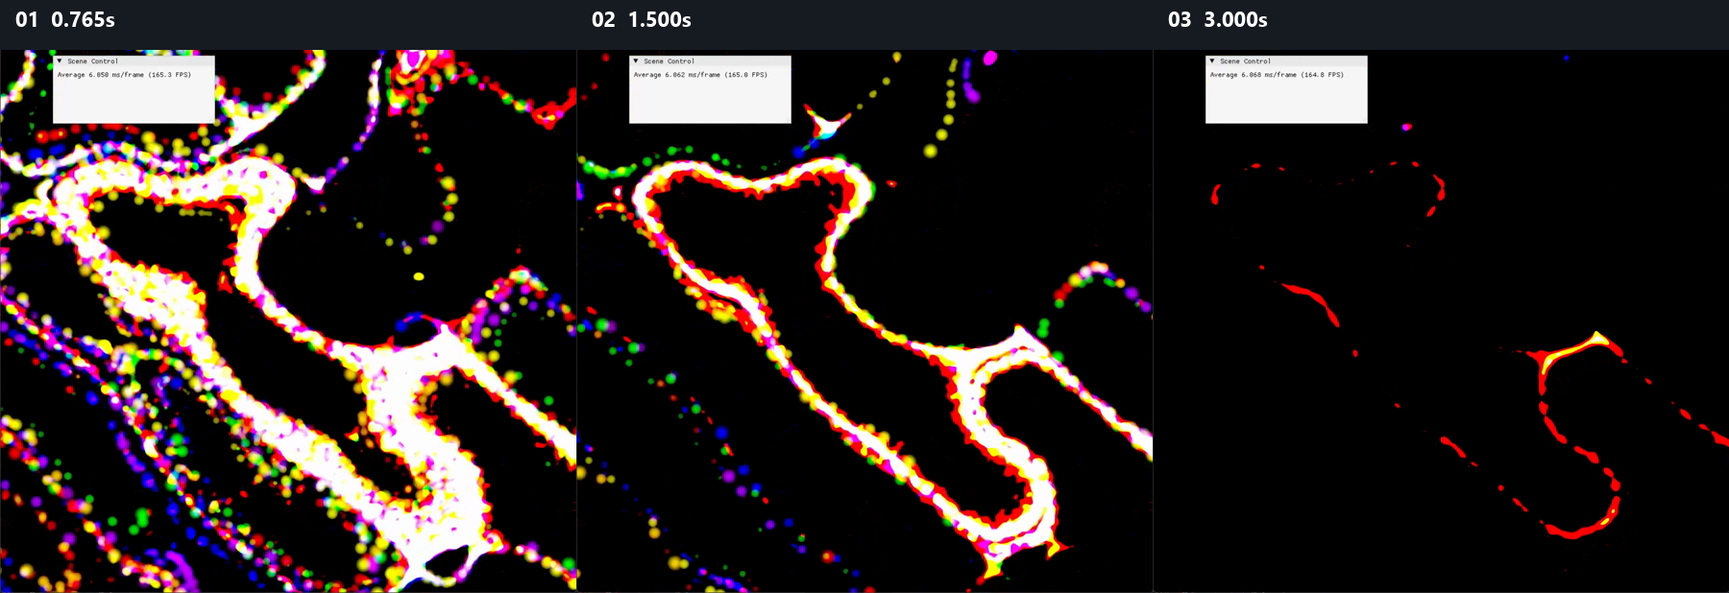
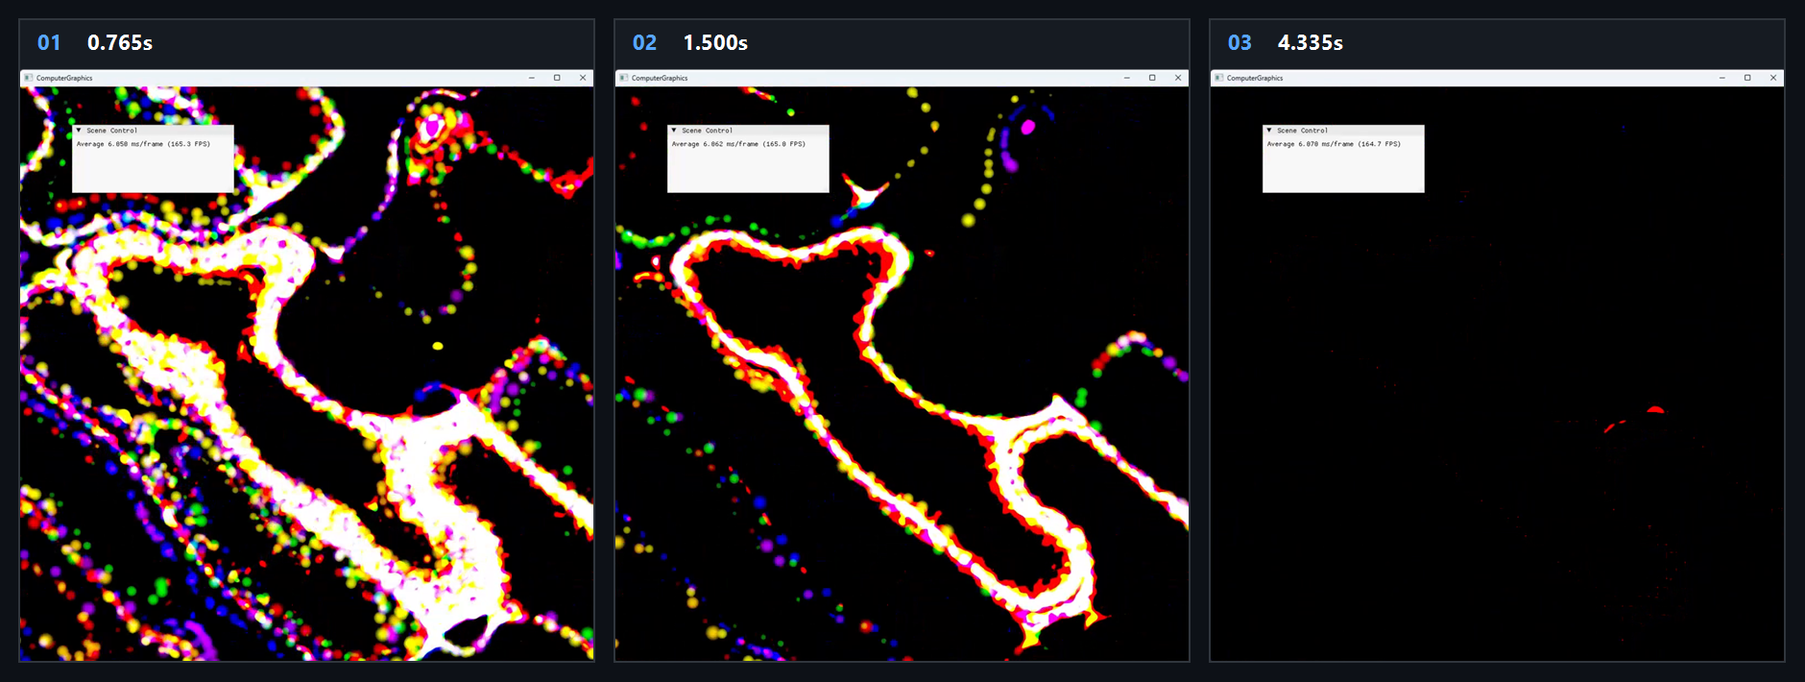
fix: Part4 storyboard final asset 통일

diff --git a/Docs/02_Verification/Part4_Chapter14-20/verification-index.md b/Docs/02_Verification/Part4_Chapter14-20/verification-index.md
@@ -22,18 +22,18 @@
 | `Ex1501_ParticleSystem`      | `1501`           | `Part4_Chapter14-20/Examples.sln` | 성공          | 성공        | 성공            | 성공          | tracked 후보 | Debug x64 시연 video의 1.163s, 3.878s, 6.593s frame storyboard를 `Docs/_assets/captures`에 승격. Release는 과거 확인                                                |
 | `Ex1502_SpriteFireEffect`    | `1502`           | `Part4_Chapter14-20/Examples.sln` | 성공          | 성공        | 성공            | 성공          | tracked 후보 | Debug x64 시연 video의 1.695s, 5.650s, 9.605s frame storyboard를 `Docs/_assets/captures`에 승격. 원본 `flare0.dds`는 직접 링크하지 않음. Release는 과거 확인                   |
 | `Ex1503_SphWater`            | `1503`           | `Part4_Chapter14-20/Examples.sln` | 성공          | 성공        | 성공            | 성공          | tracked 후보 | Debug x64 시연 video의 2.200s, 4.600s, 12.467s frame storyboard를 `Docs/_assets/captures`에 승격. Release는 과거 확인                                               |
-| `Ex1601_StableFluids`        | `1601`           | `Part4_Chapter14-20/Examples.sln` | 성공          | 성공        | 성공            | 성공          | tracked 후보 | 2026-08-07 Debug와 Release x64 build/run/capture smoke 성공. 5.200s, 13.000s, 20.800s interaction storyboard를 `Docs/_assets/captures`에 승격함                 |
-| `Ex1602_CurlNoise`           | `1602`           | `Part4_Chapter14-20/Examples.sln` | 성공          | 성공        | 성공            | 성공          | tracked 후보 | 2026-08-07 Debug와 Release x64 build/run/capture smoke 성공. 0.765s, 1.500s, 3.000s colored curl-noise density trail storyboard를 `Docs/_assets/captures`에 승격함 |
+| `Ex1601_StableFluids`        | `1601`           | `Part4_Chapter14-20/Examples.sln` | 성공          | 성공        | 성공            | 성공          | tracked 후보 | 2026-08-07 Debug와 Release x64 build/run/capture smoke 성공. 5.200s, 13.000s, 22.100s interaction storyboard를 `Docs/_assets/captures`에 승격함                 |
+| `Ex1602_CurlNoise`           | `1602`           | `Part4_Chapter14-20/Examples.sln` | 성공          | 성공        | 성공            | 성공          | tracked 후보 | 2026-08-07 Debug와 Release x64 build/run/capture smoke 성공. 0.765s, 1.500s, 4.335s colored curl-noise density trail storyboard를 `Docs/_assets/captures`에 승격함 |
 | `Ex1603_Cloud`               | `1603`           | `Part4_Chapter14-20/Examples.sln` | 성공          | 성공        | 성공            | 성공          | tracked 후보 | 2026-08-07 Debug와 Release x64 build/run/capture smoke 성공. 0.870s, 2.900s, 4.930s volumetric cloud storyboard를 `Docs/_assets/captures`에 승격함 |
-| `Ex1604_RealtimeSmoke`       | `1604`           | `Part4_Chapter14-20/Examples.sln` | 성공          | 성공        | 성공            | 성공          | tracked 후보 | 2026-08-07 Debug와 Release x64 build/run/capture smoke 성공. 5.370s, 13.420s, 21.470s HDRI rendered storyboard를 승격하고 원본 HDRI는 직접 게시하지 않음                   |
+| `Ex1604_RealtimeSmoke`       | `1604`           | `Part4_Chapter14-20/Examples.sln` | 성공          | 성공        | 성공            | 성공          | tracked 후보 | 2026-08-07 Debug와 Release x64 build/run/capture smoke 성공. 4.025s, 13.417s, 22.808s HDRI rendered storyboard를 승격하고 원본 HDRI는 직접 게시하지 않음                   |
 | `Ex1605_SmokeCpu`            | `1605`           | `Part4_Chapter14-20/Examples.sln` | 성공          | 성공        | 성공            | 성공          | tracked 후보 | 2026-08-07 Debug와 Release x64 build/run/capture smoke 성공. 1.350s, 4.500s, 7.650s CPU smoke storyboard를 `Docs/_assets/captures`에 승격하고 HDRI 원본은 직접 게시하지 않음 |
-| `Ex1606_HybridWater`         | `1606`           | `Part4_Chapter14-20/Examples.sln` | 성공          | 성공        | 성공            | 성공          | tracked 후보 | 2026-08-07 Debug와 Release x64 build/run/capture smoke 성공. 2.510s, 6.280s, 10.050s `RenderDensity` storyboard를 승격함                                       |
-| `Ex1701_SkeletalAnimation`   | `1701`           | `Part4_Chapter14-20/Examples.sln` | 성공          | 성공        | 성공            | 성공          | tracked 후보 | 2026-08-07 Debug와 Release x64 build/run/capture smoke 성공. 1.010s, 2.530s, 4.050s skeletal pose storyboard를 승격하고 원본 character asset은 직접 게시하지 않음          |
+| `Ex1606_HybridWater`         | `1606`           | `Part4_Chapter14-20/Examples.sln` | 성공          | 성공        | 성공            | 성공          | tracked 후보 | 2026-08-07 Debug와 Release x64 build/run/capture smoke 성공. 1.885s, 6.283s, 10.682s `RenderDensity` storyboard를 승격함                                       |
+| `Ex1701_SkeletalAnimation`   | `1701`           | `Part4_Chapter14-20/Examples.sln` | 성공          | 성공        | 성공            | 성공          | tracked 후보 | 2026-08-07 Debug와 Release x64 build/run/capture smoke 성공. 0.800s, 2.500s, 4.300s skeletal pose storyboard를 승격하고 원본 character asset은 직접 게시하지 않음          |
 | `Ex1801_Tree`                | `1801`           | `Part4_Chapter14-20/Examples.sln` | 성공          | 성공        | 성공            | 성공          | tracked 후보 | 2026-08-07 Debug와 Release x64 build/run/capture smoke 성공. 1.140s, 3.800s, 6.460s tree scene storyboard를 `Docs/_assets/captures`에 승격하고 foliage 원본 asset은 직접 게시하지 않음 |
-| `Ex1802_Grass`               | `1802`           | `Part4_Chapter14-20/Examples.sln` | 성공          | 성공        | 성공            | 성공          | tracked 후보 | 2026-08-07 Debug와 Release x64 build/run/capture smoke 성공. 1.590s, 3.970s, 6.350s wind phase storyboard를 승격함                                             |
-| `Ex1803_Landscape`           | `1803`           | `Part4_Chapter14-20/Examples.sln` | 성공          | 성공        | 성공            | 성공          | tracked 후보 | 2026-08-07 Debug와 Release x64 build/run/capture smoke 성공. 1.520s, 3.800s, 6.080s terrain/ocean storyboard를 승격함                                          |
-| `Ex1901_PhysX`               | `1901`           | `Part4_Chapter14-20/Examples.sln` | 성공          | 성공        | 성공            | 성공          | tracked 후보 | 2026-08-07 Debug와 Release x64 build/run/capture smoke 성공. 1.890s, 4.720s, 7.550s block collapse storyboard를 승격함                                         |
-| `Ex2001_GamePlay`            | `2001`           | `Part4_Chapter14-20/Examples.sln` | 성공          | 성공        | 성공            | 성공          | tracked 후보 | 2026-08-07 Debug와 Release x64 build/run/capture smoke 성공. 5.680s, 14.200s, 22.720s gameplay destruction storyboard를 승격하고 원본 character asset은 직접 게시하지 않음 |
+| `Ex1802_Grass`               | `1802`           | `Part4_Chapter14-20/Examples.sln` | 성공          | 성공        | 성공            | 성공          | tracked 후보 | 2026-08-07 Debug와 Release x64 build/run/capture smoke 성공. 1.190s, 3.967s, 6.743s wind phase storyboard를 승격함                                             |
+| `Ex1803_Landscape`           | `1803`           | `Part4_Chapter14-20/Examples.sln` | 성공          | 성공        | 성공            | 성공          | tracked 후보 | 2026-08-07 Debug와 Release x64 build/run/capture smoke 성공. 1.140s, 3.800s, 6.460s terrain/ocean storyboard를 승격함                                          |
+| `Ex1901_PhysX`               | `1901`           | `Part4_Chapter14-20/Examples.sln` | 성공          | 성공        | 성공            | 성공          | tracked 후보 | 2026-08-07 Debug와 Release x64 build/run/capture smoke 성공. 1.415s, 4.717s, 8.018s block collapse storyboard를 승격함                                         |
+| `Ex2001_GamePlay`            | `2001`           | `Part4_Chapter14-20/Examples.sln` | 성공          | 성공        | 성공            | 성공          | tracked 후보 | 2026-08-07 Debug와 Release x64 build/run/capture smoke 성공. 4.260s, 14.200s, 24.140s gameplay destruction storyboard를 승격하고 원본 character asset은 직접 게시하지 않음 |
 
 ## 실행 선택 방식
 
@@ -139,14 +139,14 @@ Debug x64 build는 2026-08-06 `Examples.sln` 기준 경고 0개, 오류 0개로 
 
 | Example | Timestamp 후보 | Storyboard 설명 | Asset 주의 |
 | --- | --- | --- | --- |
-| `Ex1601_StableFluids` | 5.200s, 13.000s, 20.800s | source injection 뒤 색 density field 변화 | [tracked storyboard](../../_assets/captures/part4_chapter16_01_stable_fluids.png) |
-| `Ex1604_RealtimeSmoke` | 5.370s, 13.420s, 21.470s | HDRI 배경의 source, 확산, buoyancy 변화 | [tracked storyboard](../../_assets/captures/part4_chapter16_04_realtime_smoke.png). rendered evidence만 사용하고 원본 HDRI는 직접 게시하지 않음 |
-| `Ex1606_HybridWater` | 2.510s, 6.280s, 10.050s | raycasting surface와 `RenderDensity` volume 표시 비교 | [tracked storyboard](../../_assets/captures/part4_chapter16_06_hybrid_water.png). density field 시각화이며 물성 mode 전환으로 설명하지 않음 |
-| `Ex1701_SkeletalAnimation` | 1.010s, 2.530s, 4.050s | animation pose 변화 | [tracked storyboard](../../_assets/captures/part4_chapter17_01_skeletal_animation.png). 원본 character asset은 직접 게시하지 않음 |
-| `Ex1802_Grass` | 1.590s, 3.970s, 6.350s | wind phase에 따른 instanced grass field 변화 | [tracked storyboard](../../_assets/captures/part4_chapter18_02_grass.png). rendered evidence만 사용 |
-| `Ex1803_Landscape` | 1.520s, 3.800s, 6.080s | terrain과 animated ocean surface | [tracked storyboard](../../_assets/captures/part4_chapter18_03_landscape.png). rendered evidence만 사용 |
-| `Ex1901_PhysX` | 1.890s, 4.720s, 7.550s | block wall collapse 단계 | [tracked storyboard](../../_assets/captures/part4_chapter19_01_physx.png) |
-| `Ex2001_GamePlay` | 5.680s, 14.200s, 22.720s | gameplay destruction 진행 | [tracked storyboard](../../_assets/captures/part4_chapter20_01_gameplay.png). 원본 character asset은 직접 게시하지 않음 |
+| `Ex1601_StableFluids` | 5.200s, 13.000s, 22.100s | source injection 뒤 색 density field 변화 | [tracked storyboard](../../_assets/captures/part4_chapter16_01_stable_fluids.png) |
+| `Ex1604_RealtimeSmoke` | 4.025s, 13.417s, 22.808s | HDRI 배경의 source, 확산, buoyancy 변화 | [tracked storyboard](../../_assets/captures/part4_chapter16_04_realtime_smoke.png). rendered evidence만 사용하고 원본 HDRI는 직접 게시하지 않음 |
+| `Ex1606_HybridWater` | 1.885s, 6.283s, 10.682s | raycasting surface와 `RenderDensity` volume 표시 비교 | [tracked storyboard](../../_assets/captures/part4_chapter16_06_hybrid_water.png). density field 시각화이며 물성 mode 전환으로 설명하지 않음 |
+| `Ex1701_SkeletalAnimation` | 0.800s, 2.500s, 4.300s | animation pose 변화 | [tracked storyboard](../../_assets/captures/part4_chapter17_01_skeletal_animation.png). 원본 character asset은 직접 게시하지 않음 |
+| `Ex1802_Grass` | 1.190s, 3.967s, 6.743s | wind phase에 따른 instanced grass field 변화 | [tracked storyboard](../../_assets/captures/part4_chapter18_02_grass.png). rendered evidence만 사용 |
+| `Ex1803_Landscape` | 1.140s, 3.800s, 6.460s | terrain과 animated ocean surface | [tracked storyboard](../../_assets/captures/part4_chapter18_03_landscape.png). rendered evidence만 사용 |
+| `Ex1901_PhysX` | 1.415s, 4.717s, 8.018s | block wall collapse 단계 | [tracked storyboard](../../_assets/captures/part4_chapter19_01_physx.png) |
+| `Ex2001_GamePlay` | 4.260s, 14.200s, 24.140s | gameplay destruction 진행 | [tracked storyboard](../../_assets/captures/part4_chapter20_01_gameplay.png). 원본 character asset은 직접 게시하지 않음 |
 
 ## 갱신 기준
 

diff --git a/Docs/_assets/captures/README.md b/Docs/_assets/captures/README.md
@@ -117,18 +117,18 @@ part2_chapter04_depth-buffer.png
 | `part4_chapter15_01_particle_system.png` | storyboard | `Part4_Chapter14-20/Ex1501_ParticleSystem` | 확보 | `ComputerGraphics` title의 1.163s, 3.878s, 6.593s timestamp frame을 배치한 particle stream evidence |
 | `part4_chapter15_02_sprite_fire_effect.png` | storyboard | `Part4_Chapter14-20/Ex1502_SpriteFireEffect` | 확보 | `ComputerGraphics` title의 1.695s, 5.650s, 9.605s timestamp frame을 배치한 sprite fire rendered evidence |
 | `part4_chapter15_03_sph_water.png` | storyboard | `Part4_Chapter14-20/Ex1503_SphWater` | 확보 | `ComputerGraphics` title의 2.200s, 4.600s, 12.467s timestamp frame을 배치한 SPH water evidence |
-| `part4_chapter16_01_stable_fluids.png` | storyboard | `Part4_Chapter14-20/Ex1601_StableFluids` | 확보 | `ComputerGraphics` title의 5.200s, 13.000s, 20.800s source injection density 변화 evidence |
-| `part4_chapter16_02_curl_noise.png` | storyboard | `Part4_Chapter14-20/Ex1602_CurlNoise` | 확보 | 0.765s, 1.500s, 3.000s colored curl-noise density trail evidence |
+| `part4_chapter16_01_stable_fluids.png` | storyboard | `Part4_Chapter14-20/Ex1601_StableFluids` | 확보 | `ComputerGraphics` title의 5.200s, 13.000s, 22.100s source injection density 변화 evidence |
+| `part4_chapter16_02_curl_noise.png` | storyboard | `Part4_Chapter14-20/Ex1602_CurlNoise` | 확보 | 0.765s, 1.500s, 4.335s colored curl-noise density trail evidence |
 | `part4_chapter16_03_cloud.png` | storyboard | `Part4_Chapter14-20/Ex1603_Cloud` | 확보 | 0.870s, 2.900s, 4.930s procedural cloud volume evidence |
-| `part4_chapter16_04_realtime_smoke.png` | storyboard | `Part4_Chapter14-20/Ex1604_RealtimeSmoke` | 확보 | 5.370s, 13.420s, 21.470s HDRI rendered smoke source·확산·buoyancy evidence. 원본 HDRI는 직접 게시하지 않음 |
+| `part4_chapter16_04_realtime_smoke.png` | storyboard | `Part4_Chapter14-20/Ex1604_RealtimeSmoke` | 확보 | 4.025s, 13.417s, 22.808s HDRI rendered smoke source·확산·buoyancy evidence. 원본 HDRI는 직접 게시하지 않음 |
 | `part4_chapter16_05_smoke_cpu.png` | storyboard | `Part4_Chapter14-20/Ex1605_SmokeCpu` | 확보 | 1.350s, 4.500s, 7.650s CPU density upload와 volume smoke evidence. 원본 HDRI는 직접 게시하지 않음 |
-| `part4_chapter16_06_hybrid_water.png` | storyboard | `Part4_Chapter14-20/Ex1606_HybridWater` | 확보 | 2.510s, 6.280s, 10.050s particle-to-grid density field의 volume rendering evidence |
-| `part4_chapter17_01_skeletal_animation.png` | storyboard | `Part4_Chapter14-20/Ex1701_SkeletalAnimation` | 확보 | 1.010s, 2.530s, 4.050s skeletal animation pose evidence. 원본 character asset은 직접 게시하지 않음 |
+| `part4_chapter16_06_hybrid_water.png` | storyboard | `Part4_Chapter14-20/Ex1606_HybridWater` | 확보 | 1.885s, 6.283s, 10.682s particle-to-grid density field의 volume rendering evidence |
+| `part4_chapter17_01_skeletal_animation.png` | storyboard | `Part4_Chapter14-20/Ex1701_SkeletalAnimation` | 확보 | 0.800s, 2.500s, 4.300s skeletal animation pose evidence. 원본 character asset은 직접 게시하지 않음 |
 | `part4_chapter18_01_tree.png` | storyboard | `Part4_Chapter14-20/Ex1801_Tree` | 확보 | 1.140s, 3.800s, 6.460s trunk/branch와 leaves mesh group tree scene evidence. 원본 foliage asset은 직접 게시하지 않음 |
-| `part4_chapter18_02_grass.png` | storyboard | `Part4_Chapter14-20/Ex1802_Grass` | 확보 | 1.590s, 3.970s, 6.350s instanced grass wind phase evidence. 원본 foliage asset은 직접 게시하지 않음 |
-| `part4_chapter18_03_landscape.png` | storyboard | `Part4_Chapter14-20/Ex1803_Landscape` | 확보 | 1.520s, 3.800s, 6.080s terrain과 animated ocean surface evidence. 원본 terrain asset은 직접 게시하지 않음 |
-| `part4_chapter19_01_physx.png` | storyboard | `Part4_Chapter14-20/Ex1901_PhysX` | 확보 | 1.890s, 4.720s, 7.550s block wall collapse evidence |
-| `part4_chapter20_01_gameplay.png` | storyboard | `Part4_Chapter14-20/Ex2001_GamePlay` | 확보 | 5.680s, 14.200s, 22.720s gameplay destruction evidence. 원본 character asset은 직접 게시하지 않음 |
+| `part4_chapter18_02_grass.png` | storyboard | `Part4_Chapter14-20/Ex1802_Grass` | 확보 | 1.190s, 3.967s, 6.743s instanced grass wind phase evidence. 원본 foliage asset은 직접 게시하지 않음 |
+| `part4_chapter18_03_landscape.png` | storyboard | `Part4_Chapter14-20/Ex1803_Landscape` | 확보 | 1.140s, 3.800s, 6.460s terrain과 animated ocean surface evidence. 원본 terrain asset은 직접 게시하지 않음 |
+| `part4_chapter19_01_physx.png` | storyboard | `Part4_Chapter14-20/Ex1901_PhysX` | 확보 | 1.415s, 4.717s, 8.018s block wall collapse evidence |
+| `part4_chapter20_01_gameplay.png` | storyboard | `Part4_Chapter14-20/Ex2001_GamePlay` | 확보 | 4.260s, 14.200s, 24.140s gameplay destruction evidence. 원본 character asset은 직접 게시하지 않음 |
 
 ## 승격 체크
 

diff --git a/Docs/03_Demos/Part4_Chapter14-20/16_06_HybridWater.md b/Docs/03_Demos/Part4_Chapter14-20/16_06_HybridWater.md
@@ -14,14 +14,14 @@ Particle simulation과 grid velocity projection을 결합하고, particle-to-gri
 
 ![Chapter16 HybridWater storyboard](../../_assets/captures/part4_chapter16_06_hybrid_water.png)
 
-시연 video에서 선택한 2.510s, 6.280s, 10.050s frame을 순서대로 배치한다. 상단 `01`부터 `03`까지와 timestamp는 frame 순서와 local-only 원본 video 위치를 기록한다.
+시연 video에서 선택한 1.885s, 6.283s, 10.682s frame을 순서대로 배치한다. 상단 `01`부터 `03`까지와 timestamp는 frame 순서와 local-only 원본 video 위치를 기록한다.
 
 ## 입력과 출력
 
 | 구분 | 내용 |
 | --- | --- |
 | 입력 | command argument `1606`, structured particle buffer, grid velocity/pressure/density/SDF Texture3D, source strength와 rendering checkbox |
-| 출력 | 2.510s, 6.280s, 10.050s timestamp frame으로 구성한 raycasting surface와 density volume display storyboard |
+| 출력 | 1.885s, 6.283s, 10.682s timestamp frame으로 구성한 raycasting surface와 density volume display storyboard |
 
 ## 구현 흐름
 
@@ -57,7 +57,7 @@ Storyboard는 raycasting surface 표시와 `RenderDensity` density volume 표시
 
 - [Verification Index](../../02_Verification/Part4_Chapter14-20/verification-index.md)
 - 2026-08-07 Debug와 Release x64 build/run/capture smoke 성공
-- Storyboard PNG는 `1880x710` RGBA, non-interlaced이며 full decode와 metadata chunk 부재를 확인함
+- Storyboard PNG는 `1880x444` RGBA, non-interlaced이며 full decode와 metadata chunk 부재를 확인함
 
 ## 관련 코드
 

diff --git a/Docs/03_Demos/Part4_Chapter14-20/18_02_Grass.md b/Docs/03_Demos/Part4_Chapter14-20/18_02_Grass.md
@@ -14,14 +14,14 @@ Grass blade mesh와 instance transform을 분리하고, per-instance wind streng
 
 ![Chapter18 Grass storyboard](../../_assets/captures/part4_chapter18_02_grass.png)
 
-시연 video에서 선택한 1.590s, 3.970s, 6.350s frame을 순서대로 배치한다. 상단 `01`부터 `03`까지와 timestamp는 frame 순서와 local-only 원본 video 위치를 기록한다.
+시연 video에서 선택한 1.190s, 3.967s, 6.743s frame을 순서대로 배치한다. 상단 `01`부터 `03`까지와 timestamp는 frame 순서와 local-only 원본 video 위치를 기록한다.
 
 ## 입력과 출력
 
 | 구분 | 내용 |
 | --- | --- |
 | 입력 | command argument `1802`, grass blade vertex/index buffer, 100,000개 instance transform과 wind strength |
-| 출력 | 1.590s, 3.970s, 6.350s timestamp frame으로 구성한 wind phase grass field storyboard |
+| 출력 | 1.190s, 3.967s, 6.743s timestamp frame으로 구성한 wind phase grass field storyboard |
 
 ## 구현 흐름
 
@@ -56,7 +56,7 @@ Storyboard는 같은 grass field가 `globalTime`에 따른 wave phase와 instanc
 
 - [Verification Index](../../02_Verification/Part4_Chapter14-20/verification-index.md)
 - 2026-08-07 Debug와 Release x64 build/run/capture smoke 성공
-- Storyboard PNG는 `1880x710` RGBA, non-interlaced이며 full decode와 metadata chunk 부재를 확인함
+- Storyboard PNG는 `1880x444` RGBA, non-interlaced이며 full decode와 metadata chunk 부재를 확인함
 
 ## 관련 코드
 

diff --git a/Docs/03_Demos/Part4_Chapter14-20/17_01_SkeletalAnimation.md b/Docs/03_Demos/Part4_Chapter14-20/17_01_SkeletalAnimation.md
@@ -14,14 +14,14 @@ Character mesh와 animation clip을 분리해 읽고, frame별 bone transform을
 
 ![Chapter17 SkeletalAnimation storyboard](../../_assets/captures/part4_chapter17_01_skeletal_animation.png)
 
-시연 video에서 선택한 1.010s, 2.530s, 4.050s frame을 순서대로 배치한다. 상단 `01`부터 `03`까지와 timestamp는 frame 순서와 local-only 원본 video 위치를 기록한다.
+시연 video에서 선택한 0.800s, 2.500s, 4.300s frame을 순서대로 배치한다. 상단 `01`부터 `03`까지와 timestamp는 frame 순서와 local-only 원본 video 위치를 기록한다.
 
 ## 입력과 출력
 
 | 구분 | 내용 |
 | --- | --- |
 | 입력 | command argument `1701`, character mesh, FBX animation clip, bone hierarchy와 frame index |
-| 출력 | 1.010s, 2.530s, 4.050s timestamp frame으로 구성한 skeletal pose storyboard |
+| 출력 | 0.800s, 2.500s, 4.300s timestamp frame으로 구성한 skeletal pose storyboard |
 
 ## 구현 흐름
 
@@ -56,7 +56,7 @@ Storyboard는 동일 character mesh가 frame별 bone transform에 따라 다른 
 
 - [Verification Index](../../02_Verification/Part4_Chapter14-20/verification-index.md)
 - 2026-08-07 Debug와 Release x64 build/run/capture smoke 성공
-- Storyboard PNG는 `1880x710` RGBA, non-interlaced이며 full decode와 metadata chunk 부재를 확인함
+- Storyboard PNG는 `1880x444` RGBA, non-interlaced이며 full decode와 metadata chunk 부재를 확인함
 
 ## 관련 코드
 

diff --git a/Docs/03_Demos/Part4_Chapter14-20/18_03_Landscape.md b/Docs/03_Demos/Part4_Chapter14-20/18_03_Landscape.md
@@ -14,14 +14,14 @@ Raw heightmap에서 terrain mesh와 normal을 생성하고, procedural ocean sha
 
 ![Chapter18 Landscape storyboard](../../_assets/captures/part4_chapter18_03_landscape.png)
 
-시연 video에서 선택한 1.520s, 3.800s, 6.080s frame을 순서대로 배치한다. 상단 `01`부터 `03`까지와 timestamp는 frame 순서와 local-only 원본 video 위치를 기록한다.
+시연 video에서 선택한 1.140s, 3.800s, 6.460s frame을 순서대로 배치한다. 상단 `01`부터 `03`까지와 timestamp는 frame 순서와 local-only 원본 video 위치를 기록한다.
 
 ## 입력과 출력
 
 | 구분 | 내용 |
 | --- | --- |
 | 입력 | command argument `1803`, `terrain.raw` heightmap, terrain material, ocean square mesh와 `globalTime` |
-| 출력 | 1.520s, 3.800s, 6.080s timestamp frame으로 구성한 terrain/ocean storyboard |
+| 출력 | 1.140s, 3.800s, 6.460s timestamp frame으로 구성한 terrain/ocean storyboard |
 
 ## 구현 흐름
 
@@ -58,7 +58,7 @@ Storyboard는 heightmap terrain 위에 표시된 ocean surface가 `globalTime` w
 
 - [Verification Index](../../02_Verification/Part4_Chapter14-20/verification-index.md)
 - 2026-08-07 Debug와 Release x64 build/run/capture smoke 성공
-- Storyboard PNG는 `1880x710` RGBA, non-interlaced이며 full decode와 metadata chunk 부재를 확인함
+- Storyboard PNG는 `1880x444` RGBA, non-interlaced이며 full decode와 metadata chunk 부재를 확인함
 
 ## 관련 코드
 

diff --git a/Docs/03_Demos/Part4_Chapter14-20/16_04_RealtimeSmoke.md b/Docs/03_Demos/Part4_Chapter14-20/16_04_RealtimeSmoke.md
@@ -14,14 +14,14 @@
 
 ![Chapter16 RealtimeSmoke storyboard](../../_assets/captures/part4_chapter16_04_realtime_smoke.png)
 
-시연 video에서 선택한 5.370s, 13.420s, 21.470s frame을 순서대로 배치한다. 상단 `01`부터 `03`까지와 timestamp는 frame 순서와 local-only 원본 video 위치를 기록한다.
+시연 video에서 선택한 4.025s, 13.417s, 22.808s frame을 순서대로 배치한다. 상단 `01`부터 `03`까지와 timestamp는 frame 순서와 local-only 원본 video 위치를 기록한다.
 
 ## 입력과 출력
 
 | 구분 | 내용 |
 | --- | --- |
 | 입력 | command argument `1604`, low/high-resolution velocity 및 density Texture3D, source strength와 buoyancy parameter |
-| 출력 | 5.370s, 13.420s, 21.470s timestamp frame으로 구성한 HDRI rendered smoke storyboard |
+| 출력 | 4.025s, 13.417s, 22.808s timestamp frame으로 구성한 HDRI rendered smoke storyboard |
 
 ## 구현 흐름
 
@@ -57,7 +57,7 @@ Storyboard는 source 영역에서 시작한 density가 확산되고, buoyancy pa
 
 - [Verification Index](../../02_Verification/Part4_Chapter14-20/verification-index.md)
 - 2026-08-07 Debug와 Release x64 build/run/capture smoke 성공
-- Storyboard PNG는 `1880x710` RGBA, non-interlaced이며 full decode와 metadata chunk 부재를 확인함
+- Storyboard PNG는 `1880x444` RGBA, non-interlaced이며 full decode와 metadata chunk 부재를 확인함
 
 ## 관련 코드
 

diff --git a/Docs/03_Demos/Part4_Chapter14-20/16_01_StableFluids.md b/Docs/03_Demos/Part4_Chapter14-20/16_01_StableFluids.md
@@ -14,14 +14,14 @@ Mouse source가 주입하는 velocity와 color density를 2D stable fluids compu
 
 ![Chapter16 StableFluids storyboard](../../_assets/captures/part4_chapter16_01_stable_fluids.png)
 
-시연 video에서 선택한 5.200s, 13.000s, 20.800s frame을 순서대로 배치한다. 상단 `01`부터 `03`까지와 timestamp는 frame 순서와 local-only 원본 video 위치를 기록한다.
+시연 video에서 선택한 5.200s, 13.000s, 22.100s frame을 순서대로 배치한다. 상단 `01`부터 `03`까지와 timestamp는 frame 순서와 local-only 원본 video 위치를 기록한다.
 
 ## 입력과 출력
 
 | 구분 | 내용 |
 | --- | --- |
 | 입력 | command argument `1601`, mouse position, left-button source, velocity 및 RGBA density texture |
-| 출력 | 5.200s, 13.000s, 20.800s timestamp frame으로 구성한 color density field storyboard |
+| 출력 | 5.200s, 13.000s, 22.100s timestamp frame으로 구성한 color density field storyboard |
 
 ## 구현 흐름
 
